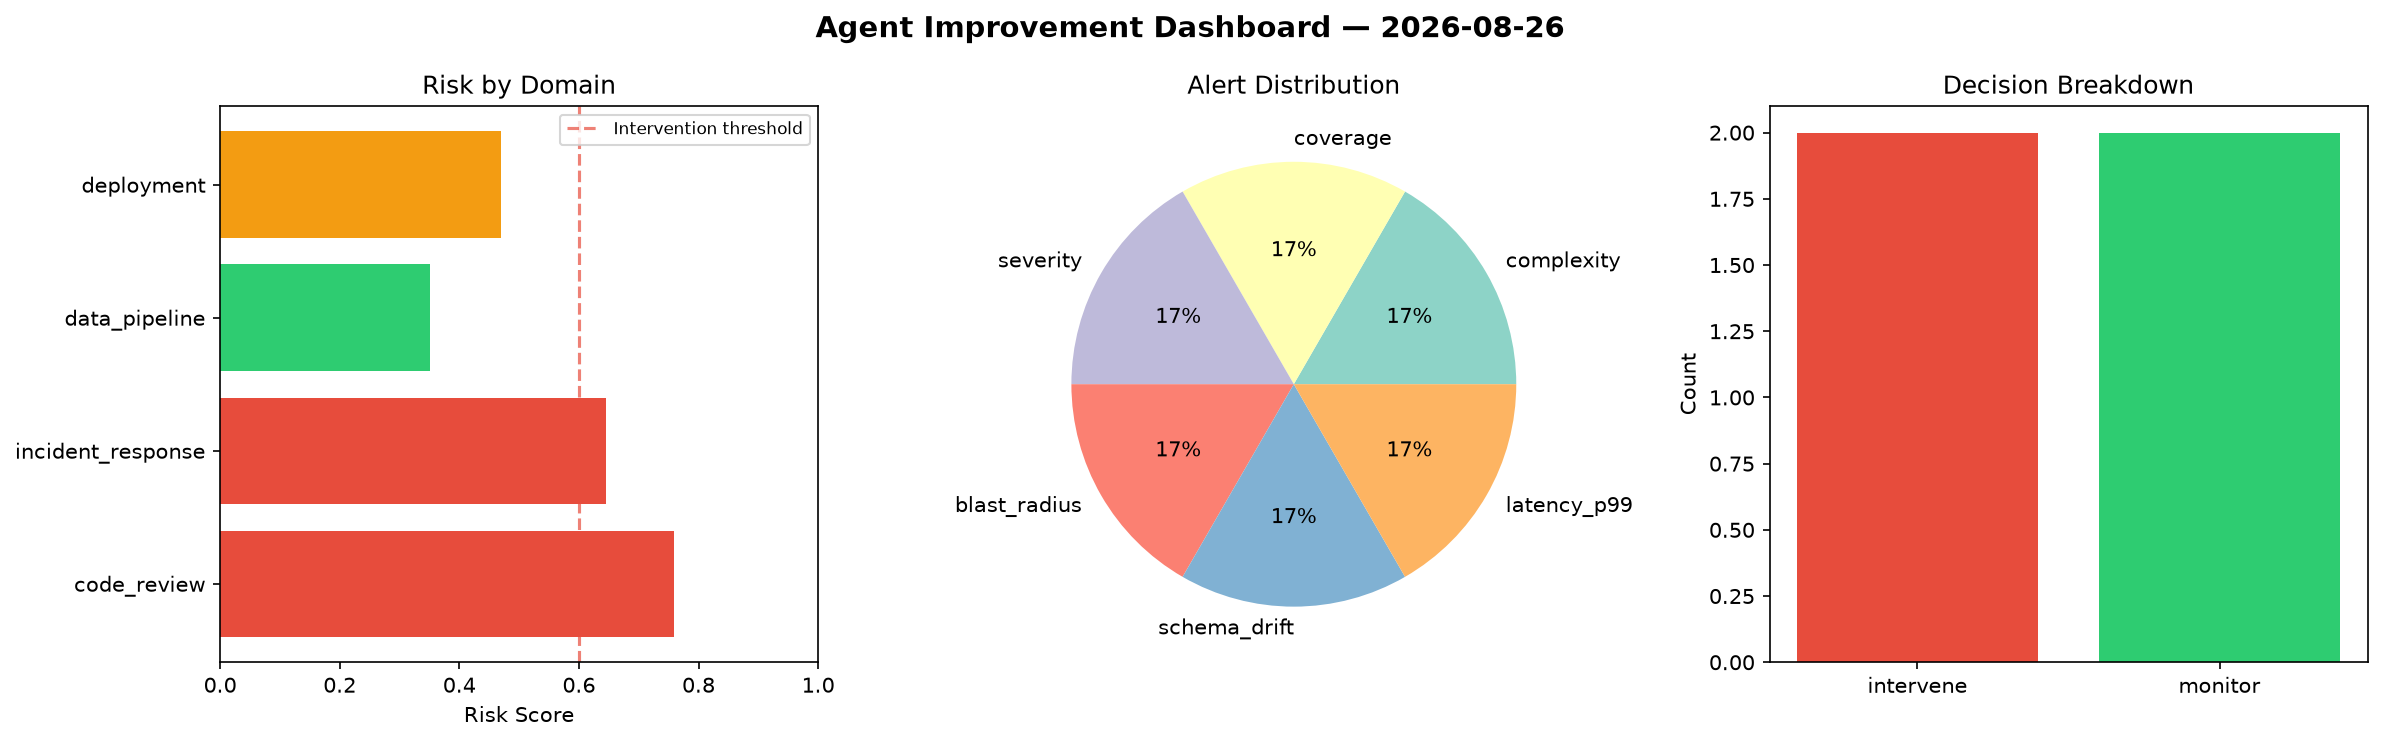
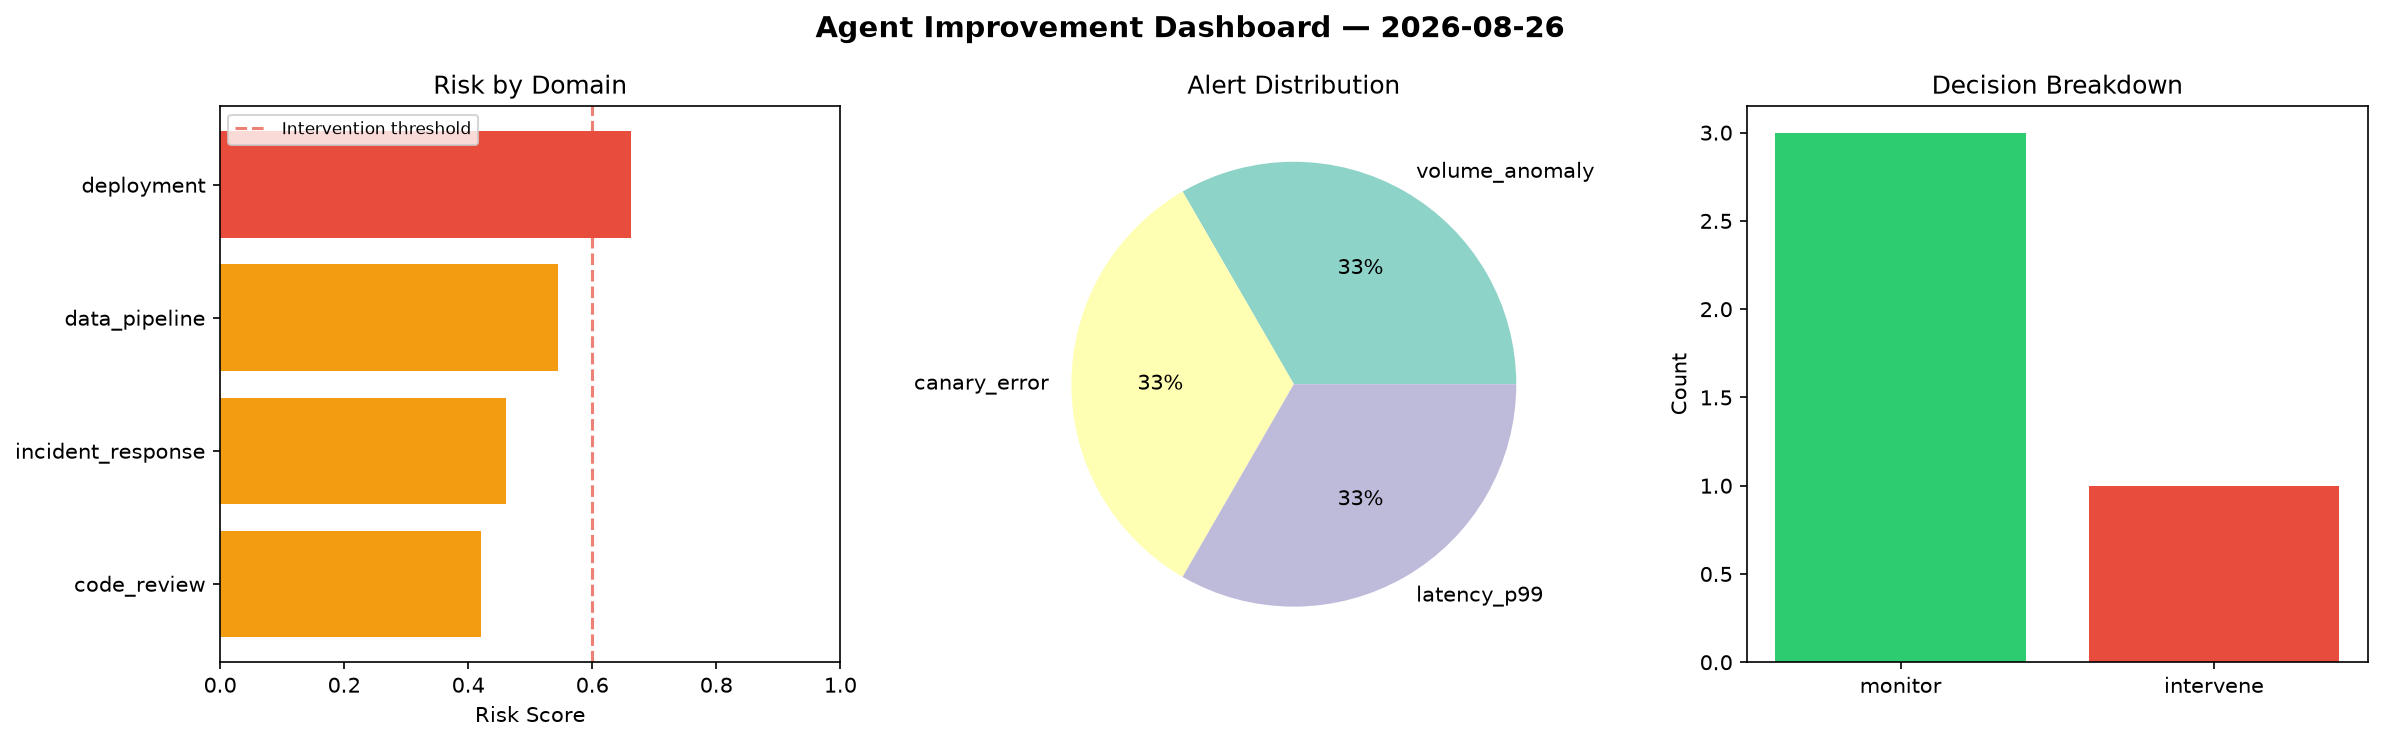
agent-improvement: daily cycle 2026-08-26T09:01

diff --git a/logs/2026-08-26.md b/logs/2026-08-26.md
@@ -1,6 +1,6 @@
 # Agent Improvement Report — 2026-08-26
 
-**Cycle ID:** `7fe7c9f2` | **Avg Risk:** 0.5566 | **Interventions:** 2/4
+**Cycle ID:** `a8e87e9b` | **Avg Risk:** 0.5227 | **Interventions:** 1/4
 
 ![Dashboard](2026-08-26_dashboard.png)
 
@@ -10,18 +10,18 @@
 
 | Domain | Risk Score | Decision | Alerts |
 |--------|-----------|----------|--------|
-| code_review | 0.7593 | intervene | complexity, coverage |
-| incident_response | 0.6458 | intervene | severity, blast_radius |
-| data_pipeline | 0.3516 | monitor | schema_drift |
-| deployment | 0.4698 | monitor | latency_p99 |
+| code_review | 0.4211 | monitor | none |
+| incident_response | 0.4615 | monitor | none |
+| data_pipeline | 0.5452 | monitor | volume_anomaly |
+| deployment | 0.6631 | intervene | canary_error, latency_p99 |
 
 ## Delta vs Yesterday
 
 | Domain | Today | Yesterday | Change |
 |--------|-------|-----------|--------|
-| code_review | 0.7593 | 0.1962 | 📈 287.0% |
-| incident_response | 0.6458 | 0.6362 | 📈 1.5% |
-| data_pipeline | 0.3516 | 0.6225 | 📉 -43.5% |
-| deployment | 0.4698 | 0.5589 | 📉 -15.9% |
+| code_review | 0.4211 | 0.1962 | 📈 114.6% |
+| incident_response | 0.4615 | 0.6362 | 📉 -27.5% |
+| data_pipeline | 0.5452 | 0.6225 | 📉 -12.4% |
+| deployment | 0.6631 | 0.5589 | 📈 18.6% |
 
-**Refinement:** `{'adjustment': 'maintain', 'trend': 'improving', 'window': 4}`
+**Refinement:** `{'adjustment': 'tighten_thresholds', 'trend': 'degrading', 'window': 4}`
